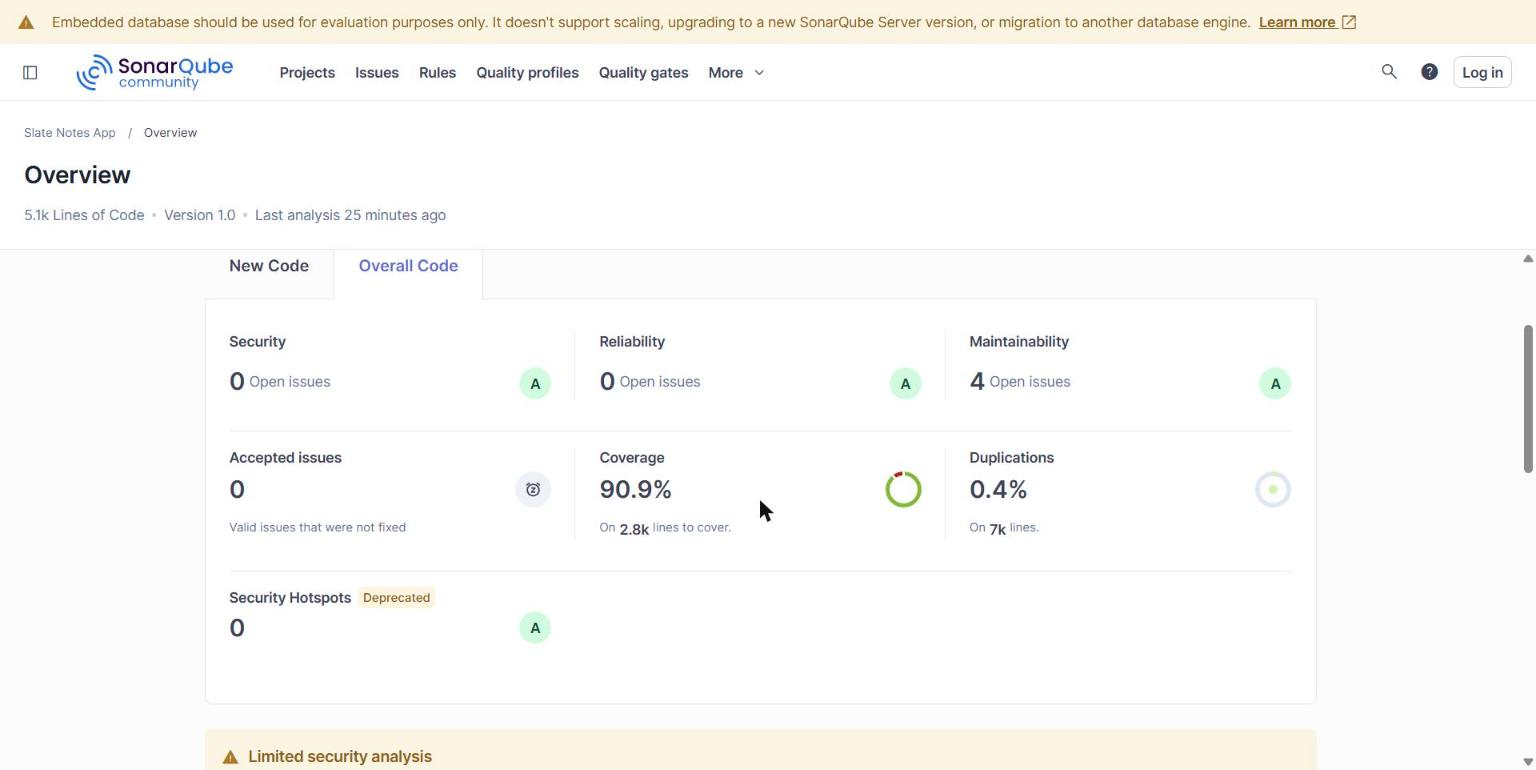
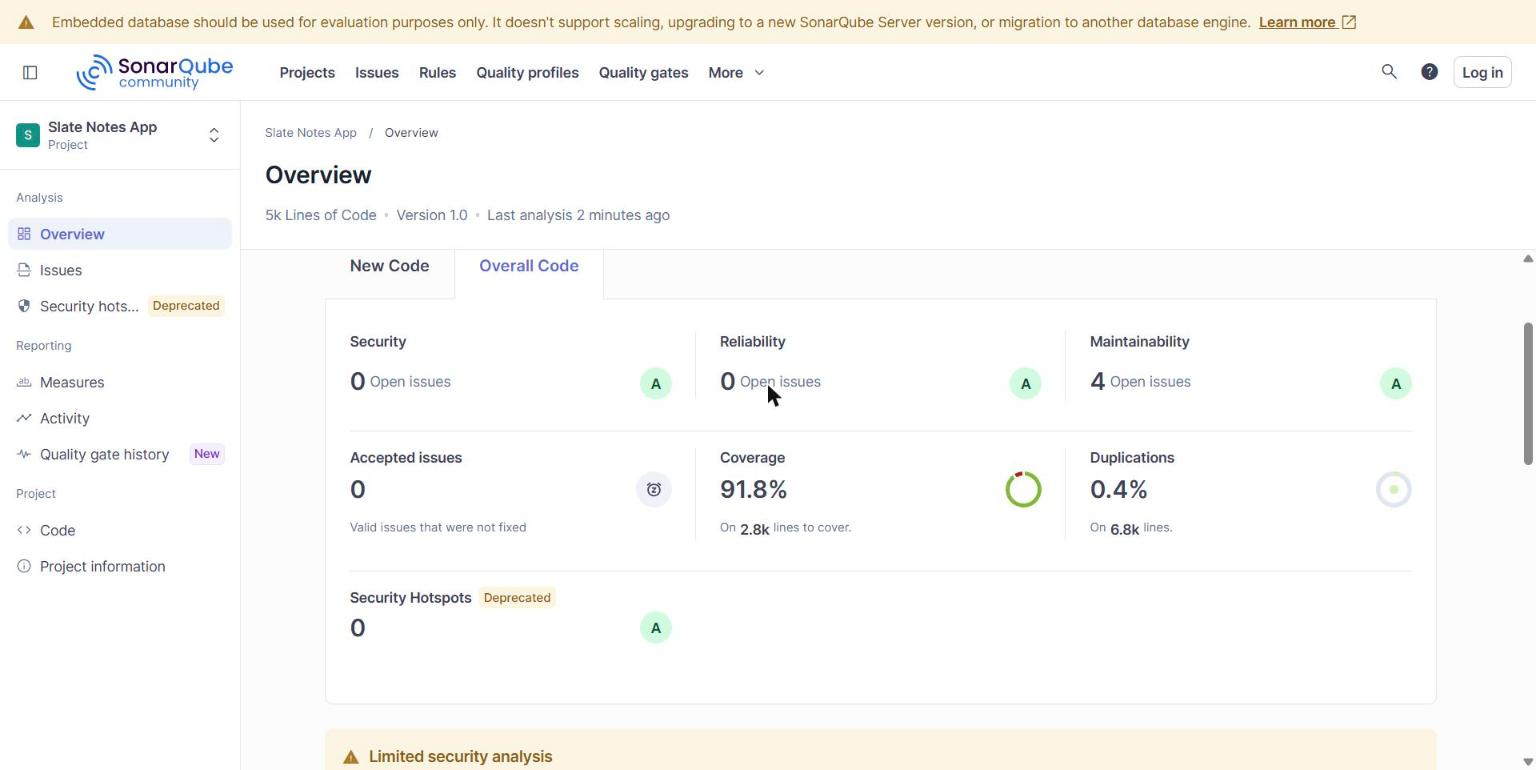
Classify the frontend tests as tests, and stop counting entrypoints
Frontend tests live under src, and sonar.test.inclusions only filters what
sonar.tests already picked up - so they were analysed as production code
and counted as uncovered. Naming that path in both puts them right, and
coverage reads 91.8% rather than 90.9%.

The two entrypoints neither runner instruments are excluded from coverage
rather than scored at zero, the stub honours a Request's own method now,
and the committed export no longer carries a contributor's email.

diff --git a/frontend/src/test/harness.tsx b/frontend/src/test/harness.tsx
@@ -33,6 +33,15 @@ function requestUrl(input: RequestInfo | URL): string {
   return input instanceof URL ? input.href : input.url;
 }
 
+/** The method fetch will actually use: init wins, then the Request's own. */
+function requestMethod(input: RequestInfo | URL, init?: RequestInit): string {
+  if (init?.method !== undefined) {
+    return init.method;
+  }
+
+  return typeof input === 'string' || input instanceof URL ? 'GET' : input.method;
+}
+
 const originalFetch = globalThis.fetch;
 
 /**
@@ -44,7 +53,7 @@ const originalFetch = globalThis.fetch;
  */
 export function stubApi(routes: Record<string, StubbedResponse>): void {
   globalThis.fetch = jest.fn((input: RequestInfo | URL, init?: RequestInit) => {
-    const key = `${init?.method ?? 'GET'} ${requestUrl(input)}`;
+    const key = `${requestMethod(input, init)} ${requestUrl(input)}`;
     const match = routes[key];
 
     // failing loudly beats a confusing undefined further along - a missing stub

diff --git a/sonarqube/analysis-report.md b/sonarqube/analysis-report.md
@@ -8,12 +8,12 @@ together. Run against SonarQube Community 26.8 on 1 September 2026.
 | Metric | Value |
 | --- | --- |
 | Quality gate | **Passed** |
-| Lines of code | 5,146 |
+| Lines of code | 5,041 |
 | Bugs | 0 |
 | Vulnerabilities | 0 |
 | Security hotspots | 0 |
 | Code smells | 4 |
-| Coverage | 90.9% |
+| Coverage | 91.8% |
 | Duplicated lines | 0.4% |
 | Reliability / Security / Maintainability | A / A / A |
 | Technical debt | 20 min |
@@ -21,6 +21,13 @@ together. Run against SonarQube Community 26.8 on 1 September 2026.
 Coverage is real, not estimated: c8 wraps Mocha and Jest runs with `--coverage`,
 and Sonar reads the two `lcov.info` files. 210 backend and 174 frontend tests
 pass at the analysed commit.
+
+The frontend's tests live under `frontend/src`, so that path is named in both
+`sonar.sources` and `sonar.tests`, with `sonar.test.inclusions` deciding which
+of its files are tests. Without that the test helpers were analysed as
+production code and counted as uncovered. The two entrypoints neither runner
+instruments - `backend/src/index.ts` and `frontend/src/main.tsx` - are named in
+`sonar.coverage.exclusions` for the same reason.
 
 ## What the first run found
 
